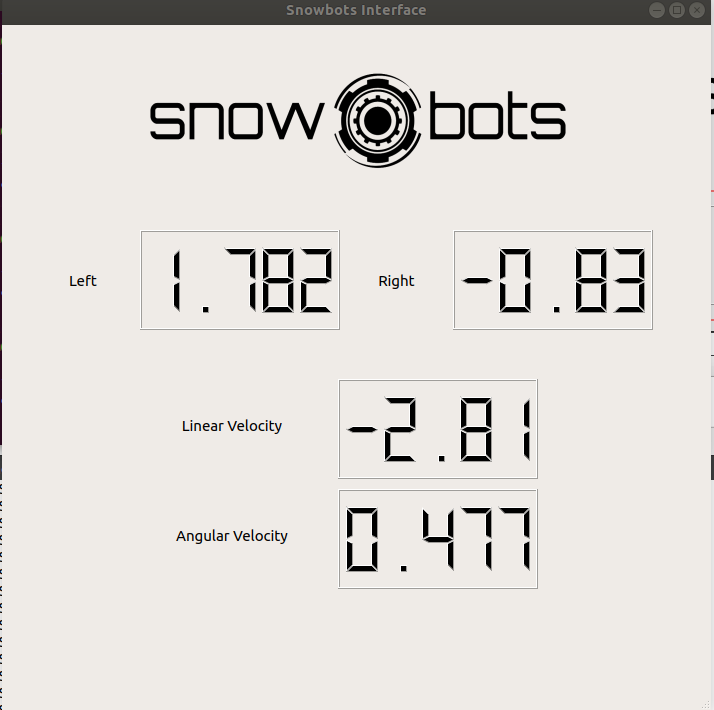
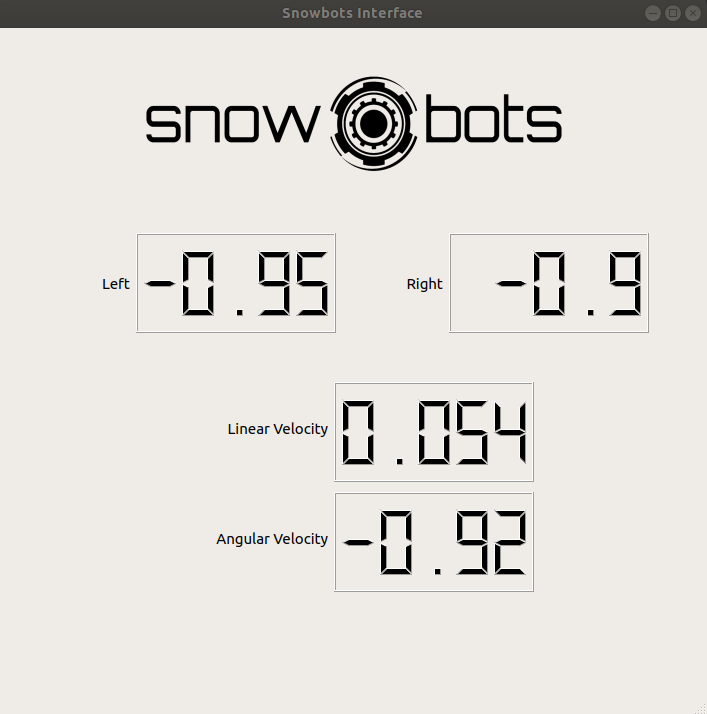
Added ui_tester package to test the snowbots_ui package without the procontroller package

diff --git a/src/ui_tester/src/ui_tester.cpp b/src/ui_tester/src/ui_tester.cpp
@@ -1,0 +1,48 @@
+/*
+ * Created By: Adam Nguyen
+ * Created On: August 21st, 2021
+ * Snowbots UI Tester. This publishes random twist messages to the "/cmd_vel"
+ * topic in place of the procontroller package
+ */
+
+#include "ros/ros.h"
+#include <geometry_msgs/Twist.h>
+#include <stdlib.h> 
+
+
+int main(int argc, char **argv)
+{
+
+  ros::init(argc, argv, "ui_tester");
+
+  ros::NodeHandle n;
+
+  ros::Publisher pub = n.advertise<geometry_msgs::Twist>("/cmd_vel", 1000);
+
+  ros::Rate rate(10);
+
+  srand(time(0));
+
+
+  while (ros::ok())
+  {
+
+	//Declares the message to be sent
+	geometry_msgs::Twist msg;
+
+	//Random x value between -2 and 2
+	msg.linear.x= 4*double(rand())/double(RAND_MAX)-2;
+
+	//Random y value between -3 and 3
+	msg.angular.z=6*double(rand())/double(RAND_MAX)-3;
+	//Publish the message
+	pub.publish(msg);
+
+	//Delays untill it is time to send another message
+	rate.sleep();
+  }
+
+
+  return 0;
+}
+

diff --git a/src/snowbots_ui/README.md b/src/snowbots_ui/README.md
@@ -17,7 +17,7 @@ sudo apt-get install ros-melodic-qt-build
 roscore
 ```
 
-### Open another terminal, source your setup.bash file and RUN GUI
+### Open another terminal, source your bashrc file and RUN GUI
 ```bash
 source devel/setup.bash
 rosrun snowbots_ui snowbots_ui 

diff --git a/src/ui_tester/README.md b/src/ui_tester/README.md
@@ -1,0 +1,8 @@
+#ui_tester
+
+This package publishes random twist messages to the "/cmd_vel" topic. This is used to test the snowbots_ui package without using the procontroller package.
+
+To run:
+
+```rosrun ui_tester ui_tester
+```
